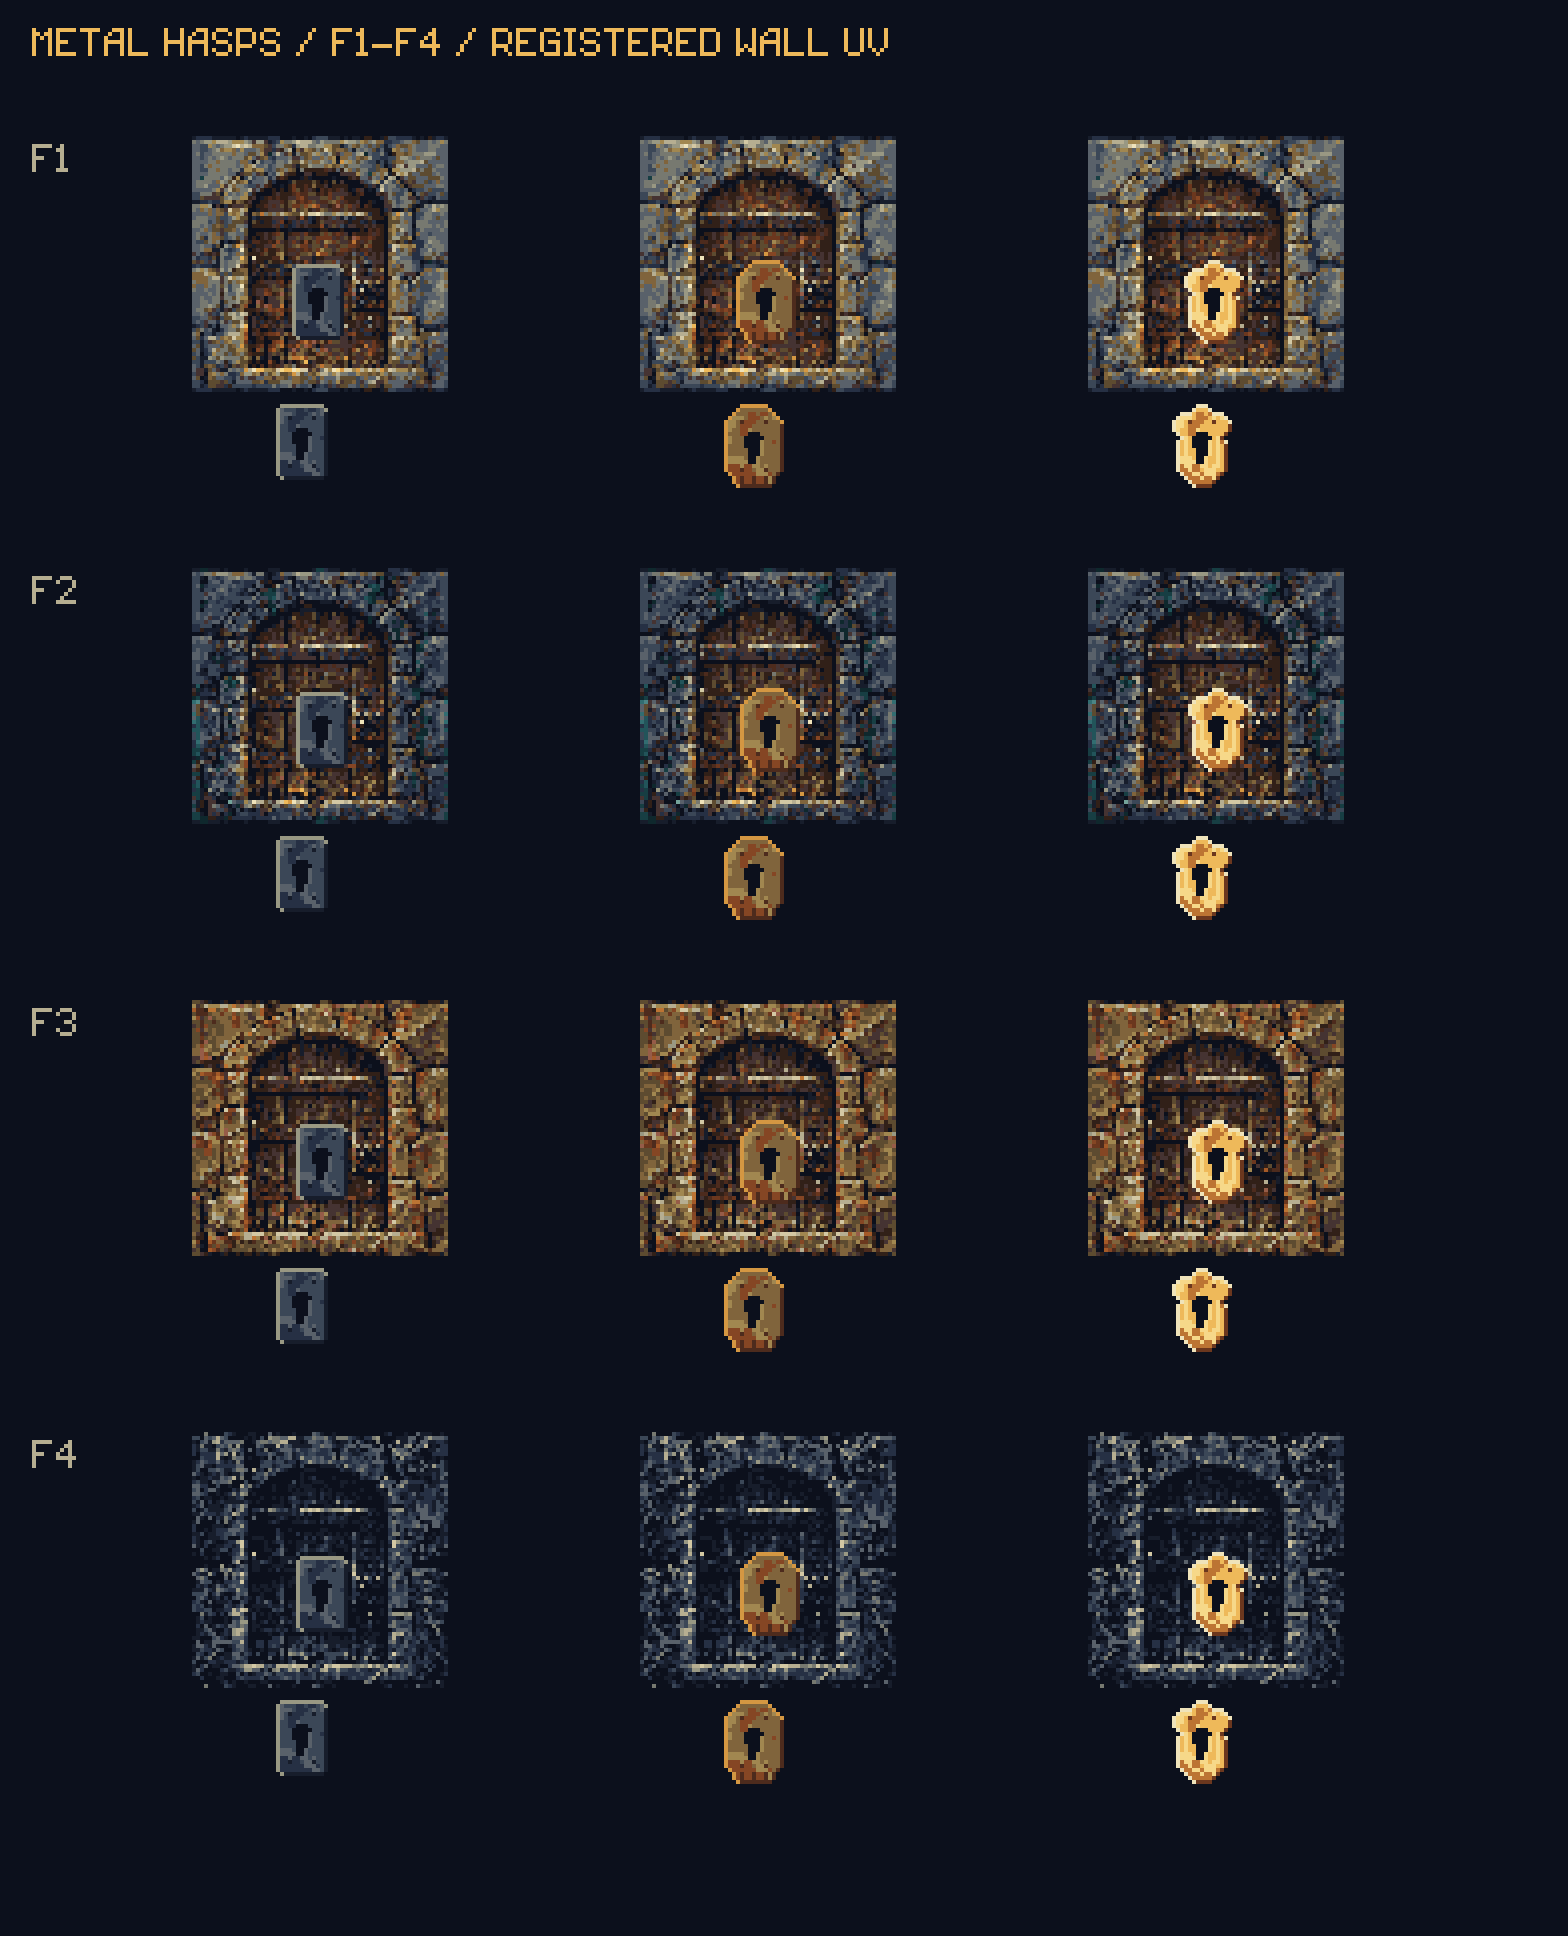
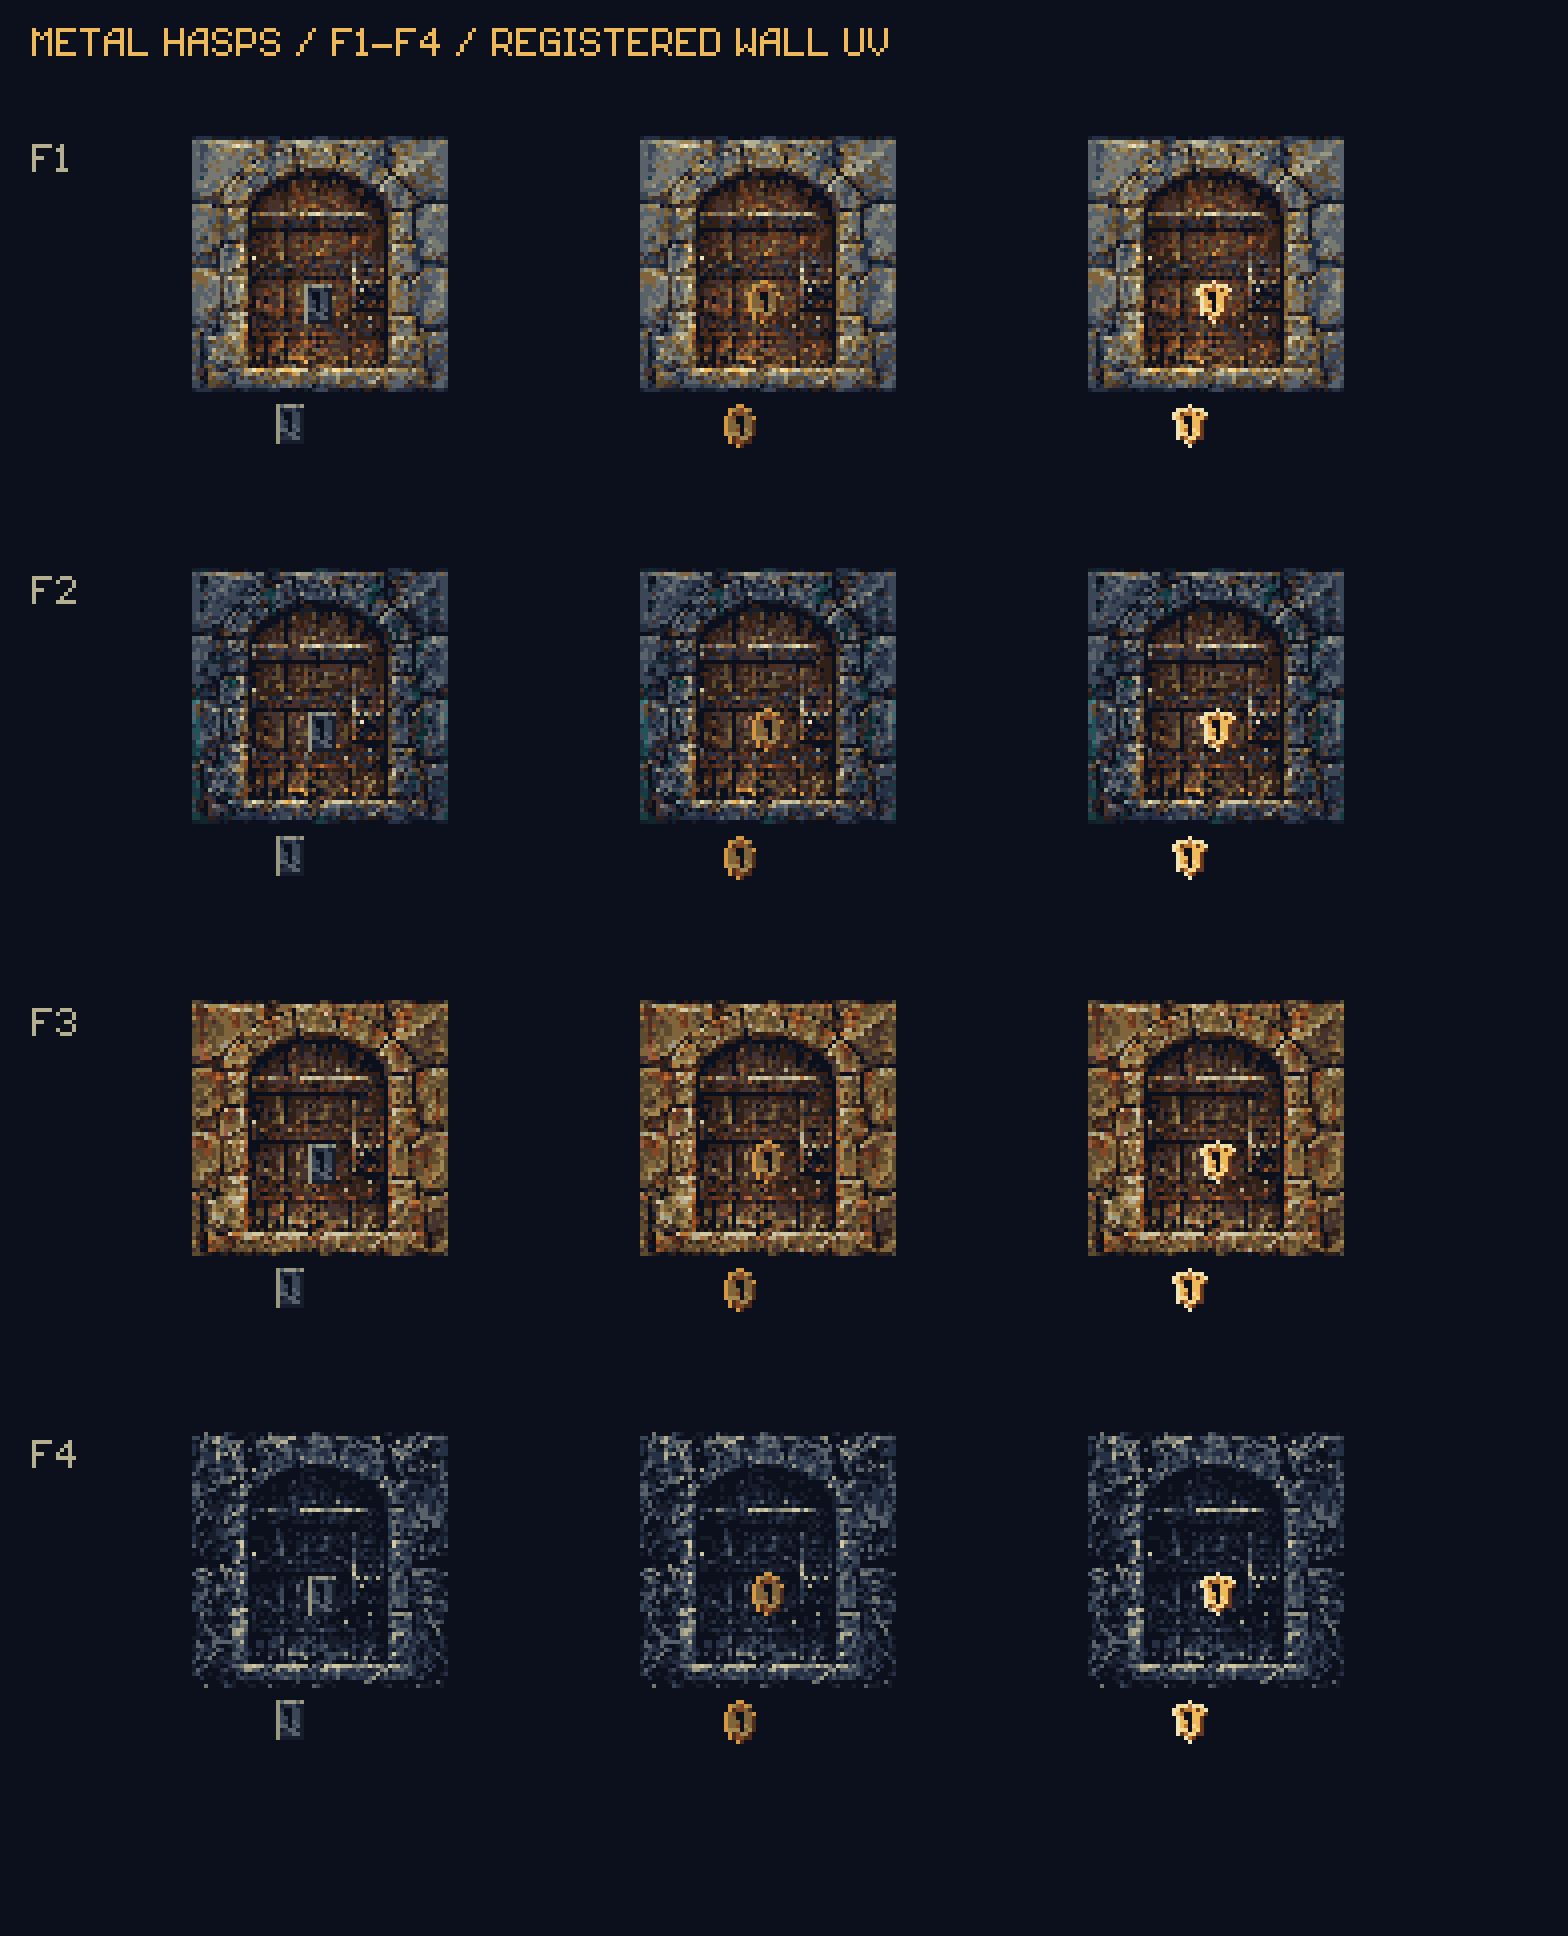
Lock plates at half size: an escutcheon at the lock, not the whole door (Codex B; the owner's note)

diff --git a/art_src/fixtures/locks_r12/build_locks.py b/art_src/fixtures/locks_r12/build_locks.py
@@ -12,32 +12,30 @@ KEYHOLES = {1:(31,41),2:(32,40),3:(32,40),4:(32,40)}
 
 def plate(b,metal,family):
     cx,cy = KEYHOLES[family]
-    local = Image.new('L',(17,21)); d = ImageDraw.Draw(local)
+    # Half-size revision: the native hasp is7-9px wide,10-11px tall.
+    # Author at its final scale so the round/crested outlines survive40/24px.
+    local = Image.new('L',(9,11)); d = ImageDraw.Draw(local)
     if metal == 'iron':
-        d.polygon([(3,1),(13,1),(14,2),(14,18),(13,19),(3,19),(2,18),(2,2)],fill=255)
+        d.rectangle((1,1,7,10),fill=255)
     elif metal == 'bronze':
-        d.polygon([(5,0),(11,0),(15,4),(15,16),(12,20),(4,20),(1,16),(1,4)],fill=255)
+        d.ellipse((0,0,7,10),fill=255)
     else:
-        d.ellipse((6,0,10,4),fill=255); d.ellipse((1,2,7,8),fill=255); d.ellipse((9,2,15,8),fill=255)
-        d.polygon([(4,5),(12,5),(14,9),(14,16),(10,20),(6,20),(2,16),(2,9)],fill=255)
+        d.ellipse((3,0,5,3),fill=255)
+        d.ellipse((0,1,3,4),fill=255); d.ellipse((5,1,8,4),fill=255)
+        d.polygon([(2,3),(6,3),(7,5),(7,8),(4,10),(1,8),(1,5)],fill=255)
     # Same paint sample and ramps as the keys, no arbitrary RGB or new texture.
     material = b.painted(local,metal)
     d = ImageDraw.Draw(material); ramp = b.RAMPS[metal]
-    # A slightly recessed hasp and one clear, dark keyhole. Bolts are restrained.
-    for x,y in ((5,4),(11,4),(5,16),(11,16)):
+    # Quiet fasteners and a tiny recessed keyhole, not a shield-sized symbol.
+    for x,y in ((2,2),(6,2),(2,8),(6,8)):
         if local.getpixel((x,y)):
             d.point((x,y),fill=ramp[0]); d.point((x,y-1),fill=ramp[3])
-    d.ellipse((6,7,10,11),fill=1)
-    d.rectangle((7,10,9,14),fill=1)
-    d.line([(10,9),(10,11),(9,14)],fill=ramp[3],width=1)
-    if metal == 'bronze':
-        # Three old cuts echo its three-toothed bit without a floating symbol.
-        for x in (5,8,11): d.line((x,18,x,19),fill=ramp[0])
-    if metal == 'gold':
-        d.line([(4,8),(4,15),(8,18),(12,15),(12,8)],fill=ramp[3],width=1)
+    d.rectangle((3,3,4,4),fill=1)
+    d.line((4,4,4,7),fill=1,width=1)
+    d.point((5,6),fill=ramp[3])
     out = b.indexed((64,64))
-    # Local keyhole centre8,10: family offsets are baked into64px overlays.
-    b.composite(out,material,(cx-8,cy-10))
+    # Local keyhole centre4,5: original family registrations are unchanged.
+    b.composite(out,material,(cx-4,cy-5))
     return out
 
 

diff --git a/docs/ART.md b/docs/ART.md
@@ -1285,7 +1285,7 @@ material edges; the world shapes retain the accepted diagonal floor pose.
 | Metal token | Key silhouette / finish | Matching lock plate |
 | --- | --- | --- |
 | `iron` | Plain squared open bow, single broad ward; dark slate iron with a grey rim | Rectangular/chamfered iron hasp |
-| `bronze` | Round open bow, three teeth; warm aged brown/bronze | Octagonal bronze plate with three small lower cuts |
+| `bronze` | Round open bow, three teeth; warm aged brown/bronze | Small round bronze escutcheon |
 | `gold` | Trefoil open bow, shaft collar and ornate stepped bit; bright gold/cream edges | Lobed gold crest and engraved inner rim |
 
 These are colour **and silhouette** distinctions. Fine teeth/lobes simplify
@@ -1327,8 +1327,12 @@ A's gameplay contract; sharing a metal does not imply sharing a key ID.
 Runtime pattern:
 **`assets/art/fixtures/lock_plate_f<1|2|3|4>_<iron|bronze|gold>_64.png`**.
 All twelve are **64x64**, anchor **wall UV(0,0)**, single static frame, binary
-alpha and the same shared palette. The native metal shapes are approximately
-13-15px wide and19-21px high; the rest of each64px canvas is transparent.
+alpha and the same shared palette. The reduced native metal shapes are
+**iron7x10, bronze8x11, gold9x11px**, about half the original width and height;
+the rest of each64px canvas is transparent. Iron is plain, bronze rounded and
+gold crested. The tiny keyhole stays at the original UV centre below. The
+refreshed comparison sheets include all three shapes at40px and24px; no path,
+64px canvas, UV registration or runtime offset changed in this size revision.
 
 | Closed door beneath the overlay | Dark keyhole centre UV | Runtime offset |
 | --- | --- | --- |

diff --git a/art_src/fixtures/locks_r12/README.md b/art_src/fixtures/locks_r12/README.md
@@ -3,6 +3,9 @@
 Twelve transparent64x64 wall-UV overlays: four painted door families times
 iron/bronze/gold. The keyhole coordinates are f1(31,41), f2-f4(32,40).
 Offsets are already baked into each face, so A draws every overlay atUV(0,0).
+The half-size revision has native bounds iron7x10, bronze8x11 and gold9x11px:
+plain iron, rounded bronze and a small ornate gold crest. The keyhole stays
+at its original family coordinate; paths and runtime wiring are unchanged.
 
 Build via `python -B art_src/items/keys_r12/build_keys.py` from the repository
 root. This shares the key's accepted painted metal patch and native ramps.
